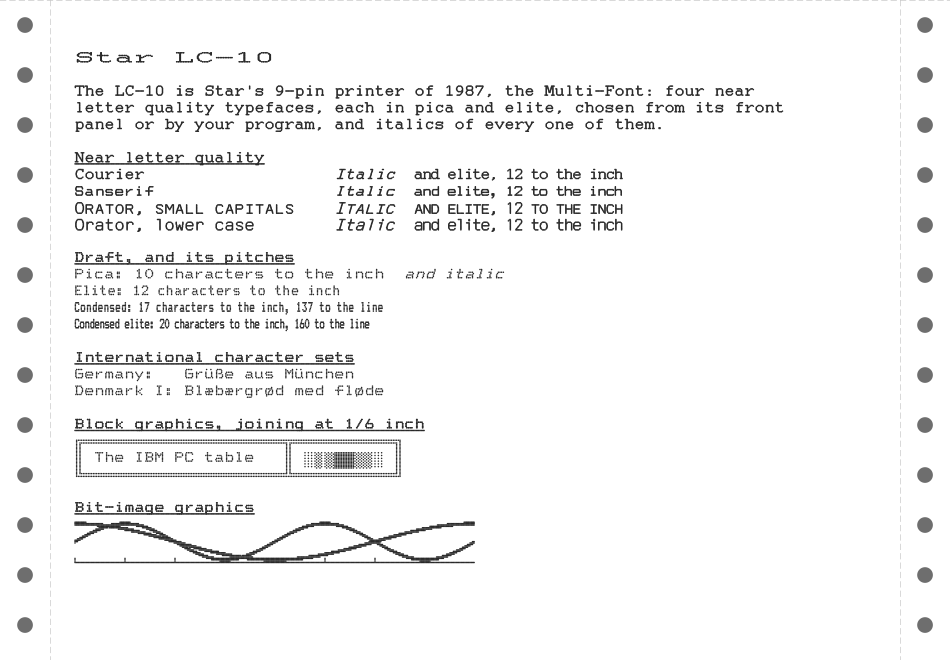
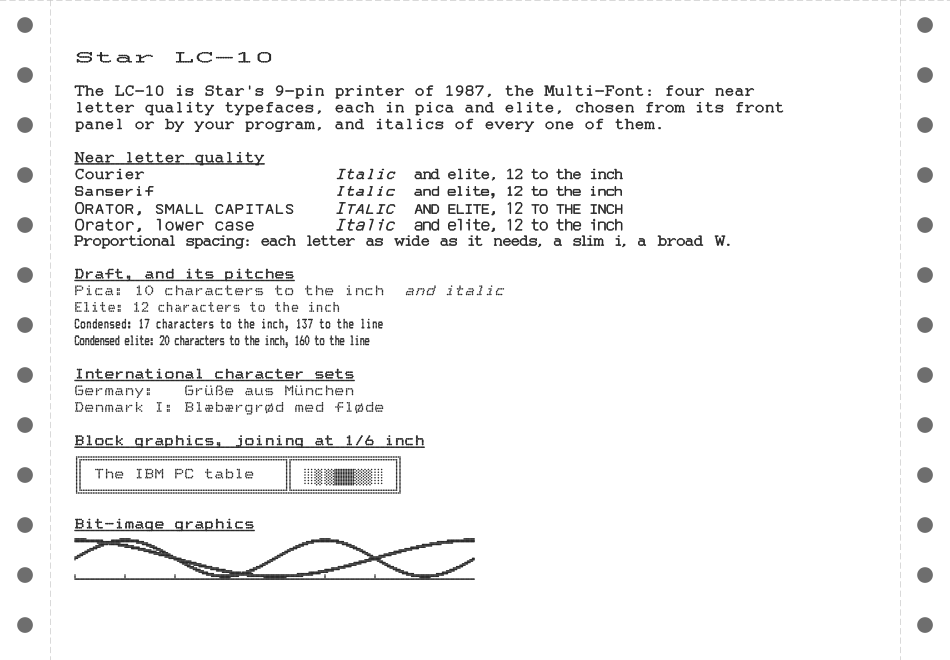
Space the LC-10's NLQ proportionally
The Star LC-10 spaces a proportional NLQ character as its glyph, flush
left without the fixed cell's left and right space, and four blank
1/240 inch columns. Whether and how NLQ is proportionally spaced is a
generator rule, nlq_proportional_cell, None by default so the other
printers keep NLQ at fixed pitch; NLQ dots now honour the style's
offset as draft dots do. The demonstration page shows a line of it.

Changed region(s): [[0.0611, 0.3636, 0.5189, 0.8788], [0.6716, 0.3333, 0.7632, 0.3939], [0.5189, 0.3636, 0.6411, 0.3939]]

diff --git a/packages/papyrium-language-escp/src/papyrium/language/escp/interpreter.py b/packages/papyrium-language-escp/src/papyrium/language/escp/interpreter.py
@@ -317,10 +317,15 @@ class EscpInterpreter(Interpreter):
         return location < IBM_LOCATION and (self._italic or (from_rom and bool(location & ITALIC)))
 
     def _nlq_character(self, location: int, glyph: Glyph, italic: bool) -> None:
-        width = self._column_width() * (2 if self._is_double_width() else 1)
+        cell = self._column_width() * (2 if self._is_double_width() else 1)
+        width, offset = cell, 0
+        proportional = self._generator.nlq_proportional_cell(glyph)
+        if self._is_proportional() and proportional is not None:
+            columns, offset = proportional
+            width = columns * (cell // self._nlq_font().columns)
         if self._x + width > self._right_limit(text=True):
             self._wrap()
-        dots = self._nlq_dots(glyph, width, italic)
+        dots = self._nlq_dots(glyph, cell, italic, offset)
         entry = _Entry(self._x, [(self._x + dx, self._y + dy) for dx, dy in dots])
         entry.text.append(self._text_mark(location, width))
         if self._underline:
@@ -419,9 +424,12 @@ class EscpInterpreter(Interpreter):
             logger.warning("no font for NLQ typeface %d; printing the first", self._typeface)
         return fonts[0]
 
-    def _nlq_dots(self, glyph: Glyph, width: int, italic: bool) -> list[tuple[int, int]]:
+    def _nlq_dots(
+        self, glyph: Glyph, width: int, italic: bool, offset: int
+    ) -> list[tuple[int, int]]:
         style = CharacterStyle(
             step=0,
+            offset=offset,
             italic=italic,
             emphasized=self._emphasized,
             double_width=self._is_double_width(),

diff --git a/packages/papyrium-language-escp/src/papyrium/language/escp/generator.py b/packages/papyrium-language-escp/src/papyrium/language/escp/generator.py
@@ -91,6 +91,12 @@ class CharacterGenerator:
         *step* apart: half a column for each row above the baseline, row 6."""
         return (BASELINE_ROW - row) * step // 2
 
+    def nlq_proportional_cell(self, glyph: Glyph) -> tuple[int, int] | None:
+        """The columns an NLQ character takes in proportional spacing, and
+        how many its glyph moves right; None where NLQ keeps to its fixed
+        cell, as here."""
+        return None
+
     def nlq_italic_offset(self, glyph: Glyph, row: int, step: int) -> int:
         """How far right italic moves an NLQ *glyph*'s dots in *row*, its
         columns *step* apart: not at all, NLQ printing upright."""
@@ -133,7 +139,7 @@ class CharacterGenerator:
         step = width // columns
         result = []
         for column, row in sorted(glyph.dots, key=lambda dot: (dot[1], dot[0])):
-            dx = column * step
+            dx = (column + style.offset) * step
             if style.italic:
                 dx += self.nlq_italic_offset(glyph, row, step)
             dy = (row // 2) * pin_pitch + (row % 2) * self.nlq_pass_offset

diff --git a/packages/papyrium-model-star-lc10/src/papyrium/model/star_lc10/generator.py b/packages/papyrium-model-star-lc10/src/papyrium/model/star_lc10/generator.py
@@ -21,8 +21,10 @@ _CELL_COLUMNS = {
     inches(1) // 20: 12,
 }
 
-#: Blank columns after a proportional draft character.
+#: Blank columns after a proportional draft character, and after a
+#: proportional NLQ one.
 _PROPORTIONAL_GAP = 2
+_NLQ_PROPORTIONAL_GAP = 4
 
 
 @dataclass(frozen=True)
@@ -57,3 +59,11 @@ class LC10CharacterGenerator(CharacterGenerator):
             return super().proportional_cell(glyph)
         first, last = glyph.extent
         return last - first + 1 + _PROPORTIONAL_GAP, -first
+
+    def nlq_proportional_cell(self, glyph: Glyph) -> tuple[int, int] | None:
+        """A proportional NLQ character is its span, printed flush left
+        without its left and right space, and four blank columns."""
+        if glyph.extent is None:
+            return None
+        first, last = glyph.extent
+        return last - first + 1 + _NLQ_PROPORTIONAL_GAP, -first

diff --git a/packages/papyrium-language-escp/tests/test_variants.py b/packages/papyrium-language-escp/tests/test_variants.py
@@ -252,3 +252,17 @@ def test_the_draft_fonts_glyph_comes_before_the_block_graphics_font():
     font = MemoryDotFont(name="with-line", text=text)
     data = ESC + b"t\x01\xc4"
     assert dots(data, font=font, block_graphics_font=_block_font()) == [(LEFT, 0)]
+
+
+class _ProportionalNlq(CharacterGenerator):
+    def nlq_proportional_cell(self, glyph):
+        return 5, -glyph.extent[0]
+
+
+def test_nlq_is_fixed_pitch_unless_the_generator_spaces_it_proportionally():
+    options = {"nlq": True, "nlq_fonts": (_nlq_font(3),)}
+    data = ESC + b"x\x01" + ESC + b"p\x01AA"
+    assert [x for x, _ in dots(data, **options)][::2] == [LEFT + 54, LEFT + 432 + 54]
+    proportional = dots(data, generator=_ProportionalNlq(), **options)
+    # A's dots begin at column 3; flush left, in a cell of five 1/240 inch columns.
+    assert [x for x, _ in proportional][::2] == [LEFT, LEFT + 5 * 18]

diff --git a/packages/papyrium-model-star-lc10/src/papyrium/model/star_lc10/demo.py b/packages/papyrium-model-star-lc10/src/papyrium/model/star_lc10/demo.py
@@ -35,7 +35,13 @@ def demo() -> bytes:
             _typeface(1, "Sanserif"),
             _typeface(2, "Orator, small capitals"),
             _typeface(3, "Orator, lower case"),
-            ESC + b"k\x00" + ESC + b"x\x00",
+            ESC + b"k\x00",
+            line(
+                ESC + b"p\x01",
+                "Proportional spacing: each letter as wide as it needs, a slim i, a broad W.",
+                ESC + b"p\x00",
+            ),
+            ESC + b"x\x00",
             heading("Draft, and its pitches"),
             line("Pica: 10 characters to the inch  ", ESC + b"4", "and italic", ESC + b"5"),
             line(ESC + b"M", "Elite: 12 characters to the inch", ESC + b"P"),

diff --git a/packages/papyrium-model-star-lc10/tests/test_generator.py b/packages/papyrium-model-star-lc10/tests/test_generator.py
@@ -64,3 +64,7 @@ def test_double_strike_repeats_each_dot_half_a_dot_lower():
     glyph = Glyph(frozenset({(0, 0)}))
     dots = GENERATOR.draft_dots(glyph, CharacterStyle(step=DRAFT_STEP, double_strike=True), PIN)
     assert dots == [(0, 0), (0, inches(1) // 144)]
+
+
+def test_a_proportional_nlq_character_is_its_span_flush_left_and_four_columns():
+    assert GENERATOR.nlq_proportional_cell(Glyph(frozenset({(3, 0)}), span=(2, 20))) == (23, -2)

diff --git a/packages/papyrium-model-star-lc10/README.md b/packages/papyrium-model-star-lc10/README.md
@@ -12,9 +12,9 @@ forms them as its firmware does: draft, with pica made from the Sanserif
 typeface at half width and elite from the ROM's draft table; and four
 near letter quality typefaces, Courier, Sanserif, and Orator with small
 capitals or with lower case, each in pica and elite, printed in two
-passes half a dot apart. Italic slants every character, draft and NLQ,
-as the firmware does, each column's dots moving further right the
-higher they are. The IBM block graphics are twelve dots high, as the
+passes half a dot apart, at fixed pitch or proportionally spaced. Italic
+slants every character, draft and NLQ, as the firmware does, each
+column's dots moving further right the higher they are. The IBM block graphics are twelve dots high, as the
 printer prints them, so that boxes join at 1/6 inch line spacing.
 
 ## Demonstration page
@@ -40,7 +40,7 @@ the printer's DIP switches and paper:
 | `elite-font` | `lc10-draft-elite` | The elite draft characters: an installed font's name, or the path of a dot font file |
 
 Not modelled yet: IBM mode (switch 1-6), the Star commands beyond the
-LX-800's, proportional spacing in NLQ, character sizes (`ESC h`,
+LX-800's, proportional spacing in elite, character sizes (`ESC h`,
 `ESC w`), auto carriage return (switch
 1-2), download characters as the LC-10 defines them, and the LC-10
 Colour.
